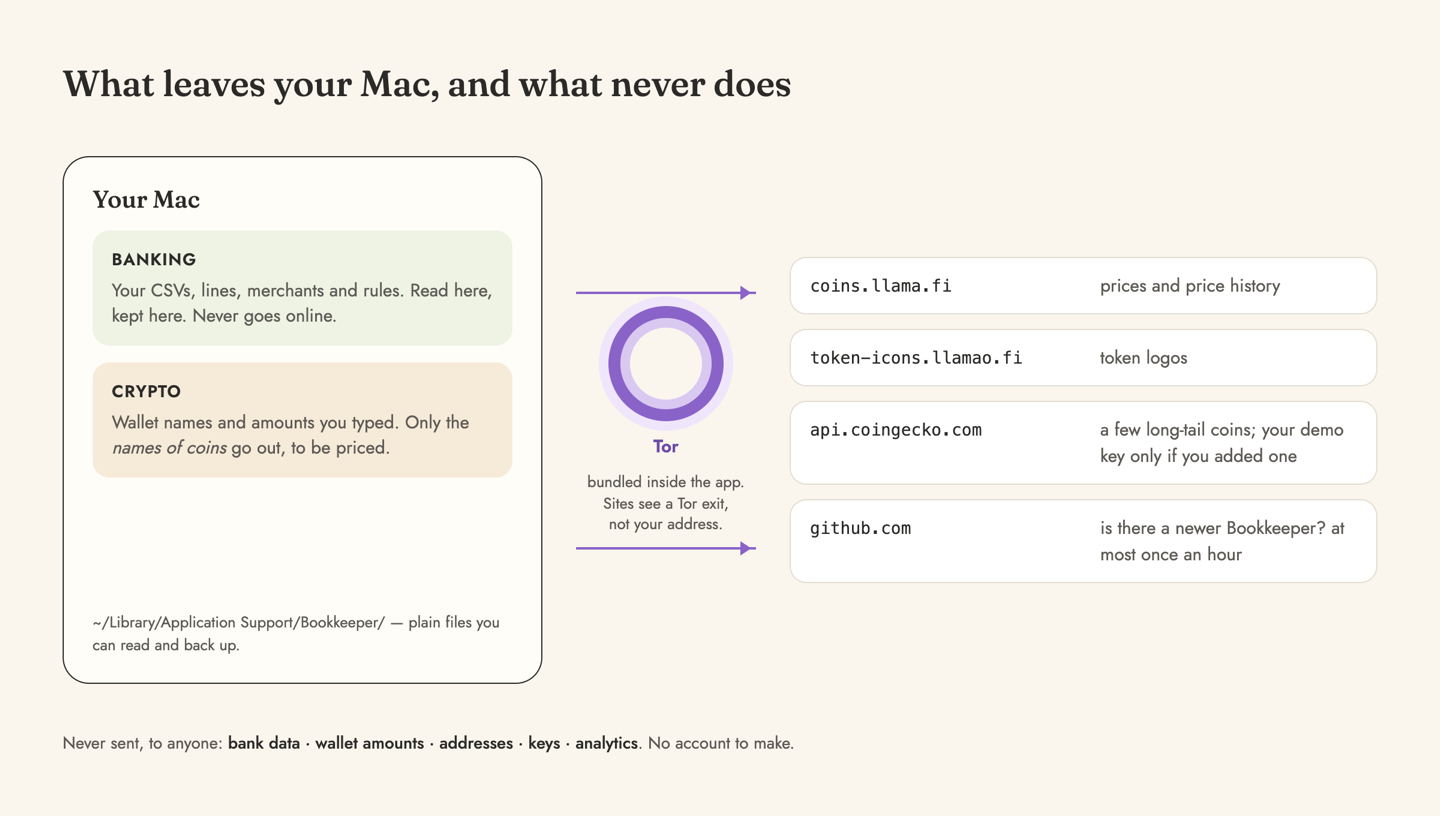
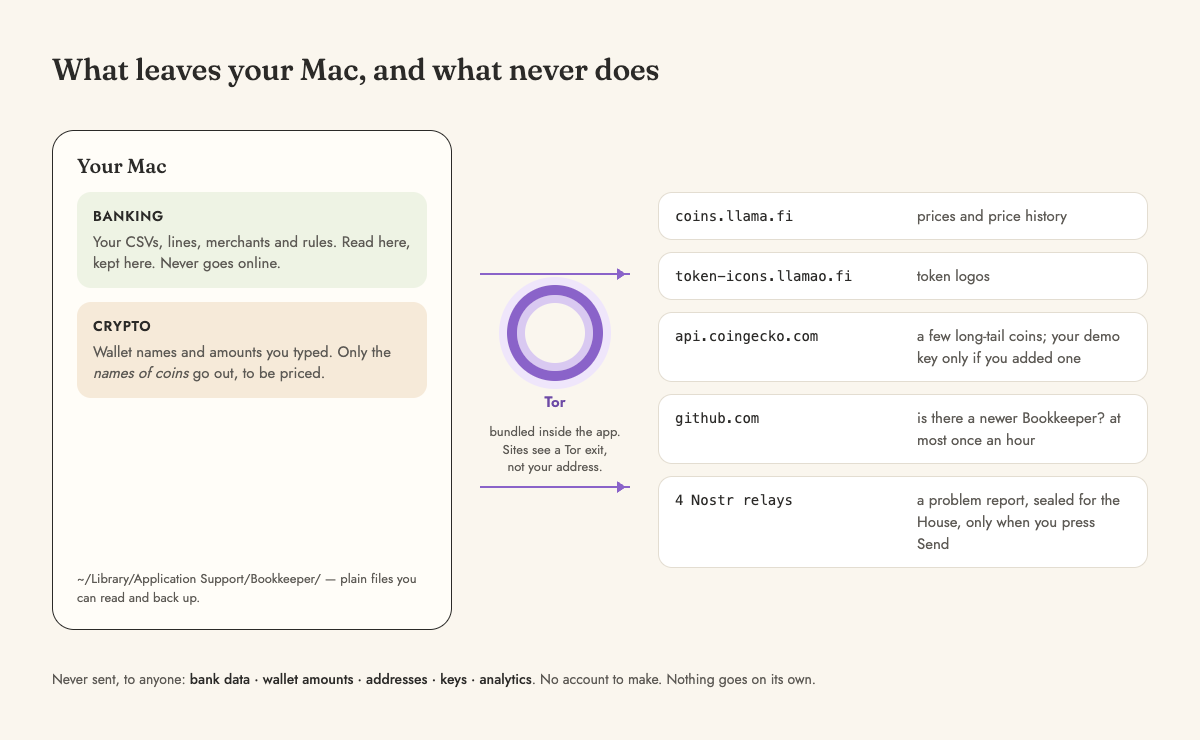
Docs light and dark on the House's paper

diff --git a/site/docs/docs.css b/site/docs/docs.css
@@ -1,20 +1,42 @@
 /* 📚 A room's docs (rendered by tools/prep-docs.py): page list on the left, the page, its headings on the right.
-   The banner's cream and the room's own colours, so it reads as part of the House. */
+   The House's paper and ink are Scriptorium's (its global.css tokens), light and dark; each room brings its own
+   colour (--accent, --dark on <body>). Dark follows the OS unless the reader chose; the moon/sun bottom right flips it. */
 :root {
-  --cream: #fff6dd;
-  --ink: #30383f;
-  --soft: rgb(48 56 63 / 0.62);
-  --line: rgb(48 56 63 / 0.14);
+  color-scheme: light;
+  --bg: #f5f0e6; --bg-hi: #fbf8f0;
+  --paper: #fffdf8;
+  --ink: #211d16;
+  --soft: #8a8170;
+  --line: #e6dfce;
+  --bar: rgb(245 240 230 / 0.92);
+  --code: rgb(255 253 248 / 0.9);
+  --mono: ui-monospace, "SF Mono", Menlo, monospace;
 }
+@media (prefers-color-scheme: dark) {
+  :root:not([data-theme="light"]) {
+    color-scheme: dark;
+    --bg: #15120d; --bg-hi: #1c1812; --paper: #211c15; --ink: #ece3d1; --soft: #998f7b; --line: #352f24;
+    --bar: rgb(21 18 13 / 0.92); --code: rgb(255 255 255 / 0.06);
+  }
+}
+:root[data-theme="dark"] {
+  color-scheme: dark;
+  --bg: #15120d; --bg-hi: #1c1812; --paper: #211c15; --ink: #ece3d1; --soft: #998f7b; --line: #352f24;
+  --bar: rgb(21 18 13 / 0.92); --code: rgb(255 255 255 / 0.06);
+}
+/* The room's colour for words: its deep shade by day, its bright one by night. */
+body { --hue: var(--dark); }
+@media (prefers-color-scheme: dark) { :root:not([data-theme="light"]) body { --hue: var(--accent); } }
+:root[data-theme="dark"] body { --hue: var(--accent); }
 * { box-sizing: border-box; }
 html { scroll-padding-top: 4.5rem; }
 body {
   margin: 0;
-  background: var(--cream);
+  background: radial-gradient(ellipse at top, var(--bg-hi), var(--bg) 60%) fixed, var(--bg);
   color: var(--ink);
   font: 1.02rem/1.65 Georgia, 'Times New Roman', serif;
 }
-a { color: var(--dark); text-underline-offset: 3px; }
+a { color: var(--hue); text-underline-offset: 3px; }
 
 .top {
   position: sticky;
@@ -24,15 +46,15 @@ a { color: var(--dark); text-underline-offset: 3px; }
   align-items: center;
   gap: 1rem;
   padding: 0.6rem 16px;
-  background: rgb(255 246 221 / 0.94);
+  background: var(--bar);
   border-bottom: 3px solid var(--accent);
 }
 .top img { border-radius: 50%; vertical-align: middle; margin-right: 0.5rem; }
 .crumbs { display: flex; align-items: center; flex-wrap: wrap; gap: 0.3rem 0.6rem; }
 .home, .room { font: 700 1rem/1.2 Fraunces, Georgia, serif; text-decoration: none; color: var(--ink); white-space: nowrap; }
-.home:hover, .room:hover { color: var(--dark); }
+.home:hover, .room:hover { color: var(--hue); }
 .sep { color: var(--soft); font-size: 1.2rem; }
-.room { color: var(--dark); }
+.room { color: var(--hue); }
 .get {
   margin-left: auto;
   padding: 0.35rem 1rem;
@@ -42,17 +64,17 @@ a { color: var(--dark); text-underline-offset: 3px; }
   font: 700 0.95rem/1.2 Fraunces, Georgia, serif;
   text-decoration: none;
 }
-.get.quiet { background: none; color: var(--dark); border: 1px solid var(--line); }
+.get.quiet { background: none; color: var(--hue); border: 1px solid var(--line); }
 
 /* 📚 The shelf: every room's docs as a card, its first picture on top. */
 .shelf { max-width: 60rem; margin: 0 auto; padding: 2.5rem 16px 4rem; }
-.shelf h1 { font: 700 2.6rem/1.1 Fraunces, Georgia, serif; color: var(--dark); margin: 0 0 0.5rem; }
+.shelf h1 { font: 700 2.6rem/1.1 Fraunces, Georgia, serif; color: var(--hue); margin: 0 0 0.5rem; }
 .lead { color: var(--soft); margin: 0 0 2rem; }
 .doc-cards { display: grid; grid-template-columns: repeat(auto-fill, minmax(17rem, 1fr)); gap: 1.5rem; }
-.doc-card { display: flex; flex-direction: column; gap: 0.5rem; padding: 1rem; border-radius: 1rem; background: #fff; border: 1px solid var(--line); text-decoration: none; color: var(--ink); box-shadow: 0 18px 30px -26px rgb(40 30 10 / 0.6); transition: transform 0.15s ease; }
+.doc-card { display: flex; flex-direction: column; gap: 0.5rem; padding: 1rem; border-radius: 1rem; background: var(--paper); border: 1px solid var(--line); text-decoration: none; color: var(--ink); box-shadow: 0 18px 30px -26px rgb(40 30 10 / 0.6); transition: transform 0.15s ease; }
 .doc-card:hover { transform: translateY(-2px); }
 .doc-card .shot { margin: 0 0 0.4rem; box-shadow: 6px 8px 16px rgb(40 30 10 / 0.18); }
-.doc-name { display: flex; align-items: center; gap: 0.6rem; font: 700 1.35rem/1.2 Fraunces, Georgia, serif; color: var(--dark); }
+.doc-name { display: flex; align-items: center; gap: 0.6rem; font: 700 1.35rem/1.2 Fraunces, Georgia, serif; color: var(--hue); }
 .doc-name img { border-radius: 50%; }
 .doc-tag { color: var(--ink); }
 .doc-count { font: 0.68rem/1 ui-monospace, Menlo, monospace; letter-spacing: 0.12em; text-transform: uppercase; color: var(--soft); }
@@ -73,13 +95,13 @@ a { color: var(--dark); text-underline-offset: 3px; }
   color: var(--ink);
   text-decoration: none;
 }
-.pages a:hover, .toc a:hover { background: rgb(255 255 255 / 0.7); }
-.pages a[aria-current] { background: #fff; color: var(--dark); font-weight: 700; box-shadow: inset 3px 0 var(--accent); }
+.pages a:hover, .toc a:hover { background: var(--paper); }
+.pages a[aria-current] { background: var(--paper); color: var(--hue); font-weight: 700; box-shadow: inset 3px 0 var(--accent); }
 .pages, .toc { position: sticky; top: 4.5rem; align-self: start; }
 .toc p { margin: 0 0 0.4rem 0.7rem; font-size: 0.85rem; color: var(--soft); text-transform: lowercase; }
 .toc a { font-size: 0.92rem; color: var(--soft); }
 
-main h1, main h2, main h3 { font-family: Fraunces, Georgia, serif; color: var(--dark); line-height: 1.2; }
+main h1, main h2, main h3 { font-family: Fraunces, Georgia, serif; color: var(--hue); line-height: 1.2; }
 main h1 { font-size: 2.3rem; margin: 0 0 1rem; }
 main h2 { font-size: 1.45rem; margin: 2.2rem 0 0.6rem; padding-top: 1rem; border-top: 1px dashed var(--line); }
 main h3 { font-size: 1.15rem; margin: 1.6rem 0 0.4rem; }
@@ -91,13 +113,13 @@ main .shot img { display: block; width: 100%; }
 .shot-bar i { width: 0.7rem; height: 0.7rem; border-radius: 50%; background: #ff5f57; }
 .shot-bar i:nth-child(2) { background: #febc2e; }
 .shot-bar i:nth-child(3) { background: #28c840; }
-main code { font: 0.9em ui-monospace, Menlo, monospace; background: rgb(255 255 255 / 0.75); padding: 0.1em 0.35em; border-radius: 0.3em; }
-main pre { overflow-x: auto; background: #fff; padding: 0.9rem 1rem; border-radius: 0.6rem; border: 1px solid var(--line); }
+main code { font: 0.9em var(--mono); background: var(--code); border: 1px solid var(--line); padding: 0.1em 0.35em; border-radius: 0.3em; }
+main pre { overflow-x: auto; background: var(--paper); padding: 0.9rem 1rem; border-radius: 0.6rem; border: 1px solid var(--line); }
 main pre code { background: none; padding: 0; }
-main blockquote { margin: 1rem 0; padding: 0.6rem 1rem; border-left: 3px solid var(--accent); background: rgb(255 255 255 / 0.6); border-radius: 0 0.5rem 0.5rem 0; }
+main blockquote { margin: 1rem 0; padding: 0.6rem 1rem; border-left: 3px solid var(--accent); background: var(--paper); border-radius: 0 0.5rem 0.5rem 0; }
 main table { width: 100%; border-collapse: collapse; margin: 1rem 0; font-size: 0.95rem; display: block; overflow-x: auto; }
 main th, main td { text-align: left; padding: 0.45rem 0.7rem; border-bottom: 1px solid var(--line); vertical-align: top; }
-main th { font-family: Fraunces, Georgia, serif; color: var(--dark); }
+main th { font-family: Fraunces, Georgia, serif; color: var(--hue); }
 .turn { display: flex; justify-content: space-between; gap: 1rem; margin-top: 3rem; padding-top: 1rem; border-top: 1px dashed var(--line); }
 .turn a { font-family: Fraunces, Georgia, serif; font-weight: 700; text-decoration: none; }
 
@@ -109,9 +131,15 @@ main th { font-family: Fraunces, Georgia, serif; color: var(--dark); }
   .top { flex-wrap: wrap; gap: 0.4rem 1rem; }
   .wrap { grid-template-columns: minmax(0, 1fr); gap: 1rem; padding-top: 1rem; }
   .pages { position: static; }
-  .pages details { background: #fff; border-radius: 0.6rem; padding: 0.4rem; }
+  .pages details { background: var(--paper); border-radius: 0.6rem; padding: 0.4rem; }
   .pages summary { display: block; padding: 0.3rem 0.7rem; cursor: pointer; font-weight: 700; }
   main h1 { font-size: 1.9rem; }
 }
 .doc-card .shot img { aspect-ratio: 16 / 10; object-fit: cover; object-position: top; }
 main p > img[src*="map"], main p > img[src*="trial-"] { display: block; margin: 1.2rem 0; border-radius: 0.8rem; border: 1px solid var(--line); }
+
+/* 🌗 The moon/sun bottom right (Scriptorium's ThemeToggle). */
+.theme-toggle { position: fixed; right: 16px; bottom: 16px; z-index: 3; display: grid; place-items: center; width: 2.4rem; height: 2.4rem; border-radius: 999px; border: 1px solid var(--line); background: var(--paper); color: var(--ink); cursor: pointer; box-shadow: 0 6px 16px -8px rgb(0 0 0 / 0.4); }
+.theme-toggle svg { width: 1.1rem; height: 1.1rem; }
+.theme-toggle .ic-sun, .is-dark .theme-toggle .ic-moon { display: none; }
+.is-dark .theme-toggle .ic-sun { display: block; }

diff --git a/site/docs/bookkeeper/07-privacy.html b/site/docs/bookkeeper/07-privacy.html
@@ -10,6 +10,7 @@
 <link rel="preconnect" href="https://fonts.gstatic.com" crossorigin>
 <link rel="stylesheet" href="https://fonts.googleapis.com/css2?family=Fraunces:opsz,wght,SOFT,WONK@9..144,700,0,1&display=swap">
 <link rel="stylesheet" href="../docs.css">
+<script>(function(){var r=document.documentElement;try{var t=localStorage.getItem('theme');if(t==='dark'||t==='light')r.dataset.theme=t;}catch(e){}r.classList.toggle('is-dark',r.dataset.theme?r.dataset.theme==='dark':matchMedia('(prefers-color-scheme: dark)').matches);})();</script>
 </head>
 <body style="--accent:#39ad7d;--dark:#008344">
 <header class="top">
@@ -68,6 +69,11 @@
 <td>The update feed, and the download when you install an update</td>
 <td>That someone checked for or fetched a release.</td>
 </tr>
+<tr>
+<td><code>nos.lol</code>, <code>relay.primal.net</code>, <code>relay.snort.social</code>, <code>nostr.mom</code></td>
+<td>A problem report, only when you press <strong>Send</strong> (arriving in a coming version; see below)</td>
+<td>Nothing readable: the report is sealed so only the House can open it, from a one-time sender.</td>
+</tr>
 </tbody>
 </table>
 <p>Prices refresh every 5 minutes while the app is open. Update checks are covered in <a href="08-updates.html">Updates</a>.</p>
@@ -76,6 +82,14 @@
 <li><strong>Bank data.</strong> Your CSVs, lines, names and rules stay on the Mac. Banking never goes online, and the app says so in Settings. Bookkeeper has no bank login to leak, because it never asks for one.</li>
 <li><strong>Your wallets and amounts.</strong> You type them in yourself; no address is looked up and nothing is sent.</li>
 <li><strong>Keys.</strong> Bookkeeper never asks for a wallet key.</li>
+</ul>
+<h2 id="problem-reports">Problem reports</h2>
+<p>Bookkeeper keeps no automatic error log that leaves the Mac. Nothing about a crash or a problem is sent unless you send it.</p>
+<ul>
+<li><strong>When.</strong> Settings has <strong>Send feedback…</strong>. If Bookkeeper closed unexpectedly, it offers the same sheet the next time it opens. Close the sheet and nothing happens.</li>
+<li><strong>What it holds.</strong> The Bookkeeper version, the macOS version, the kind of Mac (Apple silicon or Intel), the look and whether Tor is on, how many wallets and banks you have (counts only), the last 40 lines of Bookkeeper's own log, and what you write. Before you see it, Bookkeeper takes out home folder names, wallet addresses, amounts, IP addresses, e-mail addresses and the names of your own machines. Bank lines are never put in at all.</li>
+<li><strong>You see all of it.</strong> The whole report is shown before anything happens, and you can edit or delete any of it.</li>
+<li><strong>Where it goes.</strong> <strong>Copy</strong> and <strong>Save…</strong> keep it with you, to pass on however you like. <strong>Send</strong> (arriving in a coming version; until then it is dimmed) seals the report so only the House of Helios can read it, signs it with a key made for that one report, and hands it through Tor to the four public Nostr relays above. The relays hold sealed text for 30 days. No account, no e-mail, no server of the House's own, and your IP address is never seen.</li>
 </ul>
 <h2 id="no-fallback-to-direct">No fallback to direct</h2>
 <p>If Tor cannot connect, nothing is fetched. Bookkeeper waits with the last prices it has. It does not quietly go direct.</p>
@@ -86,8 +100,11 @@
   </main>
   <aside class="toc" aria-label="On this page"><p>On this page</p><ul><li><a href="#what-leaves-the-mac">What leaves the Mac</a></li>
 <li><a href="#what-stays-on-the-mac">What stays on the Mac</a></li>
+<li><a href="#problem-reports">Problem reports</a></li>
 <li><a href="#no-fallback-to-direct">No fallback to direct</a></li>
 <li><a href="#where-things-are-kept">Where things are kept</a></li></ul></aside>
 </div>
+<button class="theme-toggle" type="button" aria-label="Switch colour theme" title="Switch light / dark"><svg class="ic-moon" viewBox="0 0 24 24" fill="none" stroke="currentColor" stroke-width="1.7" stroke-linecap="round" stroke-linejoin="round" aria-hidden="true"><path d="M21 12.8A8.5 8.5 0 1 1 11.2 3a6.6 6.6 0 0 0 9.8 9.8Z"/></svg><svg class="ic-sun" viewBox="0 0 24 24" fill="none" stroke="currentColor" stroke-width="1.7" stroke-linecap="round" stroke-linejoin="round" aria-hidden="true"><circle cx="12" cy="12" r="4.2"/><path d="M12 2.4v2.4M12 19.2v2.4M2.4 12h2.4M19.2 12h2.4M4.9 4.9l1.7 1.7M17.4 17.4l1.7 1.7M19.1 4.9l-1.7 1.7M6.6 17.4l-1.7 1.7"/></svg></button>
+<script>(function(){var r=document.documentElement,b=document.querySelector('.theme-toggle'),mq=matchMedia('(prefers-color-scheme: dark)');var eff=function(){return r.dataset.theme||(mq.matches?'dark':'light')};var sync=function(){r.classList.toggle('is-dark',eff()==='dark')};sync();b.addEventListener('click',function(){var n=eff()==='dark'?'light':'dark';r.dataset.theme=n;try{localStorage.setItem('theme',n)}catch(e){}sync()});mq.addEventListener('change',function(){if(!r.dataset.theme)sync()});})();</script>
 </body>
 </html>

diff --git a/site/docs/xmrange/05-default-wallet.html b/site/docs/xmrange/05-default-wallet.html
@@ -10,6 +10,7 @@
 <link rel="preconnect" href="https://fonts.gstatic.com" crossorigin>
 <link rel="stylesheet" href="https://fonts.googleapis.com/css2?family=Fraunces:opsz,wght,SOFT,WONK@9..144,700,0,1&display=swap">
 <link rel="stylesheet" href="../docs.css">
+<script>(function(){var r=document.documentElement;try{var t=localStorage.getItem('theme');if(t==='dark'||t==='light')r.dataset.theme=t;}catch(e){}r.classList.toggle('is-dark',r.dataset.theme?r.dataset.theme==='dark':matchMedia('(prefers-color-scheme: dark)').matches);})();</script>
 </head>
 <body style="--accent:#39ad7d;--dark:#008344">
 <header class="top">
@@ -54,5 +55,7 @@
   <aside class="toc" aria-label="On this page"><p>On this page</p><ul><li><a href="#use-your-own">Use your own</a></li>
 <li><a href="#where-your-wallet-lives">Where your wallet lives</a></li></ul></aside>
 </div>
+<button class="theme-toggle" type="button" aria-label="Switch colour theme" title="Switch light / dark"><svg class="ic-moon" viewBox="0 0 24 24" fill="none" stroke="currentColor" stroke-width="1.7" stroke-linecap="round" stroke-linejoin="round" aria-hidden="true"><path d="M21 12.8A8.5 8.5 0 1 1 11.2 3a6.6 6.6 0 0 0 9.8 9.8Z"/></svg><svg class="ic-sun" viewBox="0 0 24 24" fill="none" stroke="currentColor" stroke-width="1.7" stroke-linecap="round" stroke-linejoin="round" aria-hidden="true"><circle cx="12" cy="12" r="4.2"/><path d="M12 2.4v2.4M12 19.2v2.4M2.4 12h2.4M19.2 12h2.4M4.9 4.9l1.7 1.7M17.4 17.4l1.7 1.7M19.1 4.9l-1.7 1.7M6.6 17.4l-1.7 1.7"/></svg></button>
+<script>(function(){var r=document.documentElement,b=document.querySelector('.theme-toggle'),mq=matchMedia('(prefers-color-scheme: dark)');var eff=function(){return r.dataset.theme||(mq.matches?'dark':'light')};var sync=function(){r.classList.toggle('is-dark',eff()==='dark')};sync();b.addEventListener('click',function(){var n=eff()==='dark'?'light':'dark';r.dataset.theme=n;try{localStorage.setItem('theme',n)}catch(e){}sync()});mq.addEventListener('change',function(){if(!r.dataset.theme)sync()});})();</script>
 </body>
 </html>

diff --git a/site/docs/bookkeeper/01-overview.html b/site/docs/bookkeeper/01-overview.html
@@ -10,6 +10,7 @@
 <link rel="preconnect" href="https://fonts.gstatic.com" crossorigin>
 <link rel="stylesheet" href="https://fonts.googleapis.com/css2?family=Fraunces:opsz,wght,SOFT,WONK@9..144,700,0,1&display=swap">
 <link rel="stylesheet" href="../docs.css">
+<script>(function(){var r=document.documentElement;try{var t=localStorage.getItem('theme');if(t==='dark'||t==='light')r.dataset.theme=t;}catch(e){}r.classList.toggle('is-dark',r.dataset.theme?r.dataset.theme==='dark':matchMedia('(prefers-color-scheme: dark)').matches);})();</script>
 </head>
 <body style="--accent:#39ad7d;--dark:#008344">
 <header class="top">
@@ -52,5 +53,7 @@
   <aside class="toc" aria-label="On this page"><p>On this page</p><ul><li><a href="#who-it-is-for">Who it is for</a></li>
 <li><a href="#what-you-need">What you need</a></li></ul></aside>
 </div>
+<button class="theme-toggle" type="button" aria-label="Switch colour theme" title="Switch light / dark"><svg class="ic-moon" viewBox="0 0 24 24" fill="none" stroke="currentColor" stroke-width="1.7" stroke-linecap="round" stroke-linejoin="round" aria-hidden="true"><path d="M21 12.8A8.5 8.5 0 1 1 11.2 3a6.6 6.6 0 0 0 9.8 9.8Z"/></svg><svg class="ic-sun" viewBox="0 0 24 24" fill="none" stroke="currentColor" stroke-width="1.7" stroke-linecap="round" stroke-linejoin="round" aria-hidden="true"><circle cx="12" cy="12" r="4.2"/><path d="M12 2.4v2.4M12 19.2v2.4M2.4 12h2.4M19.2 12h2.4M4.9 4.9l1.7 1.7M17.4 17.4l1.7 1.7M19.1 4.9l-1.7 1.7M6.6 17.4l-1.7 1.7"/></svg></button>
+<script>(function(){var r=document.documentElement,b=document.querySelector('.theme-toggle'),mq=matchMedia('(prefers-color-scheme: dark)');var eff=function(){return r.dataset.theme||(mq.matches?'dark':'light')};var sync=function(){r.classList.toggle('is-dark',eff()==='dark')};sync();b.addEventListener('click',function(){var n=eff()==='dark'?'light':'dark';r.dataset.theme=n;try{localStorage.setItem('theme',n)}catch(e){}sync()});mq.addEventListener('change',function(){if(!r.dataset.theme)sync()});})();</script>
 </body>
 </html>

diff --git a/site/docs/bookkeeper/03-first-run.html b/site/docs/bookkeeper/03-first-run.html
@@ -10,6 +10,7 @@
 <link rel="preconnect" href="https://fonts.gstatic.com" crossorigin>
 <link rel="stylesheet" href="https://fonts.googleapis.com/css2?family=Fraunces:opsz,wght,SOFT,WONK@9..144,700,0,1&display=swap">
 <link rel="stylesheet" href="../docs.css">
+<script>(function(){var r=document.documentElement;try{var t=localStorage.getItem('theme');if(t==='dark'||t==='light')r.dataset.theme=t;}catch(e){}r.classList.toggle('is-dark',r.dataset.theme?r.dataset.theme==='dark':matchMedia('(prefers-color-scheme: dark)').matches);})();</script>
 </head>
 <body style="--accent:#39ad7d;--dark:#008344">
 <header class="top">
@@ -69,5 +70,7 @@
 <li><a href="#tor-starts-in-the-background">Tor starts in the background</a></li>
 <li><a href="#where-your-data-lives">Where your data lives</a></li></ul></aside>
 </div>
+<button class="theme-toggle" type="button" aria-label="Switch colour theme" title="Switch light / dark"><svg class="ic-moon" viewBox="0 0 24 24" fill="none" stroke="currentColor" stroke-width="1.7" stroke-linecap="round" stroke-linejoin="round" aria-hidden="true"><path d="M21 12.8A8.5 8.5 0 1 1 11.2 3a6.6 6.6 0 0 0 9.8 9.8Z"/></svg><svg class="ic-sun" viewBox="0 0 24 24" fill="none" stroke="currentColor" stroke-width="1.7" stroke-linecap="round" stroke-linejoin="round" aria-hidden="true"><circle cx="12" cy="12" r="4.2"/><path d="M12 2.4v2.4M12 19.2v2.4M2.4 12h2.4M19.2 12h2.4M4.9 4.9l1.7 1.7M17.4 17.4l1.7 1.7M19.1 4.9l-1.7 1.7M6.6 17.4l-1.7 1.7"/></svg></button>
+<script>(function(){var r=document.documentElement,b=document.querySelector('.theme-toggle'),mq=matchMedia('(prefers-color-scheme: dark)');var eff=function(){return r.dataset.theme||(mq.matches?'dark':'light')};var sync=function(){r.classList.toggle('is-dark',eff()==='dark')};sync();b.addEventListener('click',function(){var n=eff()==='dark'?'light':'dark';r.dataset.theme=n;try{localStorage.setItem('theme',n)}catch(e){}sync()});mq.addEventListener('change',function(){if(!r.dataset.theme)sync()});})();</script>
 </body>
 </html>

diff --git a/site/docs/bookkeeper/02-install.html b/site/docs/bookkeeper/02-install.html
@@ -10,6 +10,7 @@
 <link rel="preconnect" href="https://fonts.gstatic.com" crossorigin>
 <link rel="stylesheet" href="https://fonts.googleapis.com/css2?family=Fraunces:opsz,wght,SOFT,WONK@9..144,700,0,1&display=swap">
 <link rel="stylesheet" href="../docs.css">
+<script>(function(){var r=document.documentElement;try{var t=localStorage.getItem('theme');if(t==='dark'||t==='light')r.dataset.theme=t;}catch(e){}r.classList.toggle('is-dark',r.dataset.theme?r.dataset.theme==='dark':matchMedia('(prefers-color-scheme: dark)').matches);})();</script>
 </head>
 <body style="--accent:#39ad7d;--dark:#008344">
 <header class="top">
@@ -64,5 +65,7 @@
   </main>
   <aside class="toc" aria-label="On this page"><p>On this page</p><ul><li><a href="#why-macos-hesitates">Why macOS hesitates</a></li></ul></aside>
 </div>
+<button class="theme-toggle" type="button" aria-label="Switch colour theme" title="Switch light / dark"><svg class="ic-moon" viewBox="0 0 24 24" fill="none" stroke="currentColor" stroke-width="1.7" stroke-linecap="round" stroke-linejoin="round" aria-hidden="true"><path d="M21 12.8A8.5 8.5 0 1 1 11.2 3a6.6 6.6 0 0 0 9.8 9.8Z"/></svg><svg class="ic-sun" viewBox="0 0 24 24" fill="none" stroke="currentColor" stroke-width="1.7" stroke-linecap="round" stroke-linejoin="round" aria-hidden="true"><circle cx="12" cy="12" r="4.2"/><path d="M12 2.4v2.4M12 19.2v2.4M2.4 12h2.4M19.2 12h2.4M4.9 4.9l1.7 1.7M17.4 17.4l1.7 1.7M19.1 4.9l-1.7 1.7M6.6 17.4l-1.7 1.7"/></svg></button>
+<script>(function(){var r=document.documentElement,b=document.querySelector('.theme-toggle'),mq=matchMedia('(prefers-color-scheme: dark)');var eff=function(){return r.dataset.theme||(mq.matches?'dark':'light')};var sync=function(){r.classList.toggle('is-dark',eff()==='dark')};sync();b.addEventListener('click',function(){var n=eff()==='dark'?'light':'dark';r.dataset.theme=n;try{localStorage.setItem('theme',n)}catch(e){}sync()});mq.addEventListener('change',function(){if(!r.dataset.theme)sync()});})();</script>
 </body>
 </html>

diff --git a/site/docs/bookkeeper/05-crypto.html b/site/docs/bookkeeper/05-crypto.html
@@ -10,6 +10,7 @@
 <link rel="preconnect" href="https://fonts.gstatic.com" crossorigin>
 <link rel="stylesheet" href="https://fonts.googleapis.com/css2?family=Fraunces:opsz,wght,SOFT,WONK@9..144,700,0,1&display=swap">
 <link rel="stylesheet" href="../docs.css">
+<script>(function(){var r=document.documentElement;try{var t=localStorage.getItem('theme');if(t==='dark'||t==='light')r.dataset.theme=t;}catch(e){}r.classList.toggle('is-dark',r.dataset.theme?r.dataset.theme==='dark':matchMedia('(prefers-color-scheme: dark)').matches);})();</script>
 </head>
 <body style="--accent:#39ad7d;--dark:#008344">
 <header class="top">
@@ -85,5 +86,7 @@
 <li><a href="#a-free-coingecko-key-if-you-want-it">A free CoinGecko key, if you want it</a></li>
 <li><a href="#history">History</a></li></ul></aside>
 </div>
+<button class="theme-toggle" type="button" aria-label="Switch colour theme" title="Switch light / dark"><svg class="ic-moon" viewBox="0 0 24 24" fill="none" stroke="currentColor" stroke-width="1.7" stroke-linecap="round" stroke-linejoin="round" aria-hidden="true"><path d="M21 12.8A8.5 8.5 0 1 1 11.2 3a6.6 6.6 0 0 0 9.8 9.8Z"/></svg><svg class="ic-sun" viewBox="0 0 24 24" fill="none" stroke="currentColor" stroke-width="1.7" stroke-linecap="round" stroke-linejoin="round" aria-hidden="true"><circle cx="12" cy="12" r="4.2"/><path d="M12 2.4v2.4M12 19.2v2.4M2.4 12h2.4M19.2 12h2.4M4.9 4.9l1.7 1.7M17.4 17.4l1.7 1.7M19.1 4.9l-1.7 1.7M6.6 17.4l-1.7 1.7"/></svg></button>
+<script>(function(){var r=document.documentElement,b=document.querySelector('.theme-toggle'),mq=matchMedia('(prefers-color-scheme: dark)');var eff=function(){return r.dataset.theme||(mq.matches?'dark':'light')};var sync=function(){r.classList.toggle('is-dark',eff()==='dark')};sync();b.addEventListener('click',function(){var n=eff()==='dark'?'light':'dark';r.dataset.theme=n;try{localStorage.setItem('theme',n)}catch(e){}sync()});mq.addEventListener('change',function(){if(!r.dataset.theme)sync()});})();</script>
 </body>
 </html>

diff --git a/site/docs/xmrange/01-overview.html b/site/docs/xmrange/01-overview.html
@@ -10,6 +10,7 @@
 <link rel="preconnect" href="https://fonts.gstatic.com" crossorigin>
 <link rel="stylesheet" href="https://fonts.googleapis.com/css2?family=Fraunces:opsz,wght,SOFT,WONK@9..144,700,0,1&display=swap">
 <link rel="stylesheet" href="../docs.css">
+<script>(function(){var r=document.documentElement;try{var t=localStorage.getItem('theme');if(t==='dark'||t==='light')r.dataset.theme=t;}catch(e){}r.classList.toggle('is-dark',r.dataset.theme?r.dataset.theme==='dark':matchMedia('(prefers-color-scheme: dark)').matches);})();</script>
 </head>
 <body style="--accent:#39ad7d;--dark:#008344">
 <header class="top">
@@ -70,5 +71,7 @@
 <li><a href="#what-is-on-the-screen">What is on the screen</a></li>
 <li><a href="#what-it-does-not-do">What it does not do</a></li></ul></aside>
 </div>
+<button class="theme-toggle" type="button" aria-label="Switch colour theme" title="Switch light / dark"><svg class="ic-moon" viewBox="0 0 24 24" fill="none" stroke="currentColor" stroke-width="1.7" stroke-linecap="round" stroke-linejoin="round" aria-hidden="true"><path d="M21 12.8A8.5 8.5 0 1 1 11.2 3a6.6 6.6 0 0 0 9.8 9.8Z"/></svg><svg class="ic-sun" viewBox="0 0 24 24" fill="none" stroke="currentColor" stroke-width="1.7" stroke-linecap="round" stroke-linejoin="round" aria-hidden="true"><circle cx="12" cy="12" r="4.2"/><path d="M12 2.4v2.4M12 19.2v2.4M2.4 12h2.4M19.2 12h2.4M4.9 4.9l1.7 1.7M17.4 17.4l1.7 1.7M19.1 4.9l-1.7 1.7M6.6 17.4l-1.7 1.7"/></svg></button>
+<script>(function(){var r=document.documentElement,b=document.querySelector('.theme-toggle'),mq=matchMedia('(prefers-color-scheme: dark)');var eff=function(){return r.dataset.theme||(mq.matches?'dark':'light')};var sync=function(){r.classList.toggle('is-dark',eff()==='dark')};sync();b.addEventListener('click',function(){var n=eff()==='dark'?'light':'dark';r.dataset.theme=n;try{localStorage.setItem('theme',n)}catch(e){}sync()});mq.addEventListener('change',function(){if(!r.dataset.theme)sync()});})();</script>
 </body>
 </html>

diff --git a/site/docs/xmrange/06-privacy.html b/site/docs/xmrange/06-privacy.html
@@ -10,6 +10,7 @@
 <link rel="preconnect" href="https://fonts.gstatic.com" crossorigin>
 <link rel="stylesheet" href="https://fonts.googleapis.com/css2?family=Fraunces:opsz,wght,SOFT,WONK@9..144,700,0,1&display=swap">
 <link rel="stylesheet" href="../docs.css">
+<script>(function(){var r=document.documentElement;try{var t=localStorage.getItem('theme');if(t==='dark'||t==='light')r.dataset.theme=t;}catch(e){}r.classList.toggle('is-dark',r.dataset.theme?r.dataset.theme==='dark':matchMedia('(prefers-color-scheme: dark)').matches);})();</script>
 </head>
 <body style="--accent:#39ad7d;--dark:#008344">
 <header class="top">
@@ -102,5 +103,7 @@
 <li><a href="#where-things-are-kept">Where things are kept</a></li>
 <li><a href="#what-never-leaves">What never leaves</a></li></ul></aside>
 </div>
+<button class="theme-toggle" type="button" aria-label="Switch colour theme" title="Switch light / dark"><svg class="ic-moon" viewBox="0 0 24 24" fill="none" stroke="currentColor" stroke-width="1.7" stroke-linecap="round" stroke-linejoin="round" aria-hidden="true"><path d="M21 12.8A8.5 8.5 0 1 1 11.2 3a6.6 6.6 0 0 0 9.8 9.8Z"/></svg><svg class="ic-sun" viewBox="0 0 24 24" fill="none" stroke="currentColor" stroke-width="1.7" stroke-linecap="round" stroke-linejoin="round" aria-hidden="true"><circle cx="12" cy="12" r="4.2"/><path d="M12 2.4v2.4M12 19.2v2.4M2.4 12h2.4M19.2 12h2.4M4.9 4.9l1.7 1.7M17.4 17.4l1.7 1.7M19.1 4.9l-1.7 1.7M6.6 17.4l-1.7 1.7"/></svg></button>
+<script>(function(){var r=document.documentElement,b=document.querySelector('.theme-toggle'),mq=matchMedia('(prefers-color-scheme: dark)');var eff=function(){return r.dataset.theme||(mq.matches?'dark':'light')};var sync=function(){r.classList.toggle('is-dark',eff()==='dark')};sync();b.addEventListener('click',function(){var n=eff()==='dark'?'light':'dark';r.dataset.theme=n;try{localStorage.setItem('theme',n)}catch(e){}sync()});mq.addEventListener('change',function(){if(!r.dataset.theme)sync()});})();</script>
 </body>
 </html>

diff --git a/site/docs/xmrange/02-install.html b/site/docs/xmrange/02-install.html
@@ -10,6 +10,7 @@
 <link rel="preconnect" href="https://fonts.gstatic.com" crossorigin>
 <link rel="stylesheet" href="https://fonts.googleapis.com/css2?family=Fraunces:opsz,wght,SOFT,WONK@9..144,700,0,1&display=swap">
 <link rel="stylesheet" href="../docs.css">
+<script>(function(){var r=document.documentElement;try{var t=localStorage.getItem('theme');if(t==='dark'||t==='light')r.dataset.theme=t;}catch(e){}r.classList.toggle('is-dark',r.dataset.theme?r.dataset.theme==='dark':matchMedia('(prefers-color-scheme: dark)').matches);})();</script>
 </head>
 <body style="--accent:#39ad7d;--dark:#008344">
 <header class="top">
@@ -87,5 +88,7 @@
 <li><a href="#4-why-macos-hesitates">4. Why macOS hesitates</a></li>
 <li><a href="#requirements">Requirements</a></li></ul></aside>
 </div>
+<button class="theme-toggle" type="button" aria-label="Switch colour theme" title="Switch light / dark"><svg class="ic-moon" viewBox="0 0 24 24" fill="none" stroke="currentColor" stroke-width="1.7" stroke-linecap="round" stroke-linejoin="round" aria-hidden="true"><path d="M21 12.8A8.5 8.5 0 1 1 11.2 3a6.6 6.6 0 0 0 9.8 9.8Z"/></svg><svg class="ic-sun" viewBox="0 0 24 24" fill="none" stroke="currentColor" stroke-width="1.7" stroke-linecap="round" stroke-linejoin="round" aria-hidden="true"><circle cx="12" cy="12" r="4.2"/><path d="M12 2.4v2.4M12 19.2v2.4M2.4 12h2.4M19.2 12h2.4M4.9 4.9l1.7 1.7M17.4 17.4l1.7 1.7M19.1 4.9l-1.7 1.7M6.6 17.4l-1.7 1.7"/></svg></button>
+<script>(function(){var r=document.documentElement,b=document.querySelector('.theme-toggle'),mq=matchMedia('(prefers-color-scheme: dark)');var eff=function(){return r.dataset.theme||(mq.matches?'dark':'light')};var sync=function(){r.classList.toggle('is-dark',eff()==='dark')};sync();b.addEventListener('click',function(){var n=eff()==='dark'?'light':'dark';r.dataset.theme=n;try{localStorage.setItem('theme',n)}catch(e){}sync()});mq.addEventListener('change',function(){if(!r.dataset.theme)sync()});})();</script>
 </body>
 </html>

diff --git a/site/docs/bookkeeper/04-banking.html b/site/docs/bookkeeper/04-banking.html
@@ -10,6 +10,7 @@
 <link rel="preconnect" href="https://fonts.gstatic.com" crossorigin>
 <link rel="stylesheet" href="https://fonts.googleapis.com/css2?family=Fraunces:opsz,wght,SOFT,WONK@9..144,700,0,1&display=swap">
 <link rel="stylesheet" href="../docs.css">
+<script>(function(){var r=document.documentElement;try{var t=localStorage.getItem('theme');if(t==='dark'||t==='light')r.dataset.theme=t;}catch(e){}r.classList.toggle('is-dark',r.dataset.theme?r.dataset.theme==='dark':matchMedia('(prefers-color-scheme: dark)').matches);})();</script>
 </head>
 <body style="--accent:#39ad7d;--dark:#008344">
 <header class="top">
@@ -108,5 +109,7 @@
 <li><a href="#rename-a-merchant-once">Rename a merchant once</a></li>
 <li><a href="#start-over">Start over</a></li></ul></aside>
 </div>
+<button class="theme-toggle" type="button" aria-label="Switch colour theme" title="Switch light / dark"><svg class="ic-moon" viewBox="0 0 24 24" fill="none" stroke="currentColor" stroke-width="1.7" stroke-linecap="round" stroke-linejoin="round" aria-hidden="true"><path d="M21 12.8A8.5 8.5 0 1 1 11.2 3a6.6 6.6 0 0 0 9.8 9.8Z"/></svg><svg class="ic-sun" viewBox="0 0 24 24" fill="none" stroke="currentColor" stroke-width="1.7" stroke-linecap="round" stroke-linejoin="round" aria-hidden="true"><circle cx="12" cy="12" r="4.2"/><path d="M12 2.4v2.4M12 19.2v2.4M2.4 12h2.4M19.2 12h2.4M4.9 4.9l1.7 1.7M17.4 17.4l1.7 1.7M19.1 4.9l-1.7 1.7M6.6 17.4l-1.7 1.7"/></svg></button>
+<script>(function(){var r=document.documentElement,b=document.querySelector('.theme-toggle'),mq=matchMedia('(prefers-color-scheme: dark)');var eff=function(){return r.dataset.theme||(mq.matches?'dark':'light')};var sync=function(){r.classList.toggle('is-dark',eff()==='dark')};sync();b.addEventListener('click',function(){var n=eff()==='dark'?'light':'dark';r.dataset.theme=n;try{localStorage.setItem('theme',n)}catch(e){}sync()});mq.addEventListener('change',function(){if(!r.dataset.theme)sync()});})();</script>
 </body>
 </html>

diff --git a/site/docs/bookkeeper/08-updates.html b/site/docs/bookkeeper/08-updates.html
@@ -10,6 +10,7 @@
 <link rel="preconnect" href="https://fonts.gstatic.com" crossorigin>
 <link rel="stylesheet" href="https://fonts.googleapis.com/css2?family=Fraunces:opsz,wght,SOFT,WONK@9..144,700,0,1&display=swap">
 <link rel="stylesheet" href="../docs.css">
+<script>(function(){var r=document.documentElement;try{var t=localStorage.getItem('theme');if(t==='dark'||t==='light')r.dataset.theme=t;}catch(e){}r.classList.toggle('is-dark',r.dataset.theme?r.dataset.theme==='dark':matchMedia('(prefers-color-scheme: dark)').matches);})();</script>
 </head>
 <body style="--accent:#39ad7d;--dark:#008344">
 <header class="top">
@@ -59,5 +60,7 @@
 <li><a href="#how-it-trusts-an-update">How it trusts an update</a></li>
 <li><a href="#installing">Installing</a></li></ul></aside>
 </div>
+<button class="theme-toggle" type="button" aria-label="Switch colour theme" title="Switch light / dark"><svg class="ic-moon" viewBox="0 0 24 24" fill="none" stroke="currentColor" stroke-width="1.7" stroke-linecap="round" stroke-linejoin="round" aria-hidden="true"><path d="M21 12.8A8.5 8.5 0 1 1 11.2 3a6.6 6.6 0 0 0 9.8 9.8Z"/></svg><svg class="ic-sun" viewBox="0 0 24 24" fill="none" stroke="currentColor" stroke-width="1.7" stroke-linecap="round" stroke-linejoin="round" aria-hidden="true"><circle cx="12" cy="12" r="4.2"/><path d="M12 2.4v2.4M12 19.2v2.4M2.4 12h2.4M19.2 12h2.4M4.9 4.9l1.7 1.7M17.4 17.4l1.7 1.7M19.1 4.9l-1.7 1.7M6.6 17.4l-1.7 1.7"/></svg></button>
+<script>(function(){var r=document.documentElement,b=document.querySelector('.theme-toggle'),mq=matchMedia('(prefers-color-scheme: dark)');var eff=function(){return r.dataset.theme||(mq.matches?'dark':'light')};var sync=function(){r.classList.toggle('is-dark',eff()==='dark')};sync();b.addEventListener('click',function(){var n=eff()==='dark'?'light':'dark';r.dataset.theme=n;try{localStorage.setItem('theme',n)}catch(e){}sync()});mq.addEventListener('change',function(){if(!r.dataset.theme)sync()});})();</script>
 </body>
 </html>
